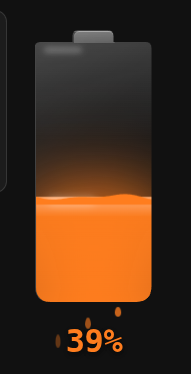
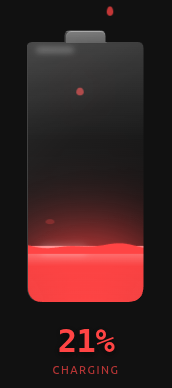
docs: add all preview images to README

diff --git a/README.md b/README.md
@@ -6,6 +6,8 @@
 A 3D liquid glass battery card for Home Assistant with realistic liquid fill, glass effects, and mouse-interactive sloshing.
 
 ![Beautiful Battery](img_1.png)
+![Beautiful Battery](img_2.png)
+![Beautiful Battery](img_3.png)
 
 ## Features
 